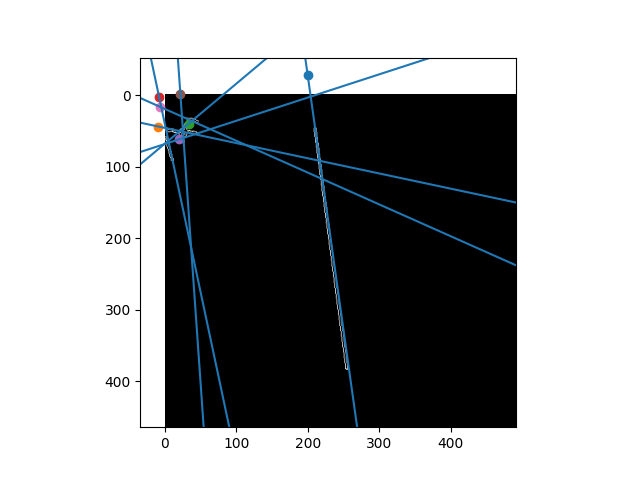
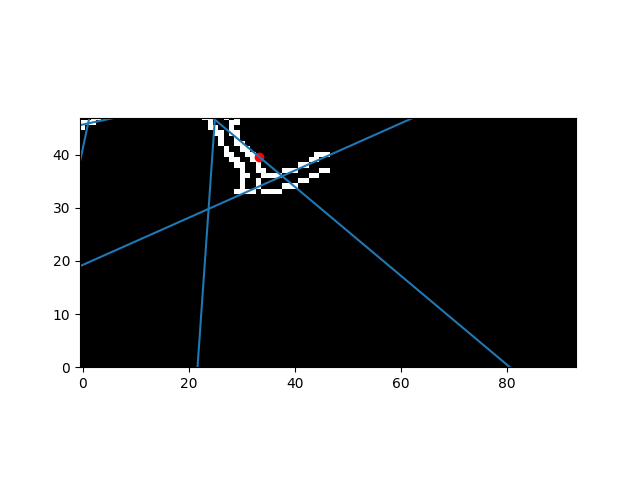
Line detection batches + modulate blur ksize in edge detection batches
Also add new test image to test on healthy bones

diff --git a/edge_detection_batch.py b/edge_detection_batch.py
@@ -1,10 +1,11 @@
 #!/usr/bin/env python3
 """
 Usage:
-    edge_detection_batch.py TARGET START STOP STEP [options]
+    edge_detection_batch.py TARGET START STOP STEP [--blur=KSIZES...] [--aperture=σ]
 
 Options:
-    --blur              Whether to pre-process with blur
+    --blur=KSIZES...    Kernel sizes for blurring. No blur if set to 0.
+                        Multiple values to test different settings.
     --aperture=σ        σ (apertureSize) to use [default: 3]
 """
 from docopt import docopt
@@ -18,14 +19,12 @@ from rich.progress import Progress
 # _, low, high, = sys.argv
 
 
-def detect_edges(
-    filename: Path, low: int, high: int, σ: int = 3, use_blur: bool = True
-):
+def detect_edges(filename: Path, low: int, high: int, σ: int = 3, blur: int = 0):
     σ, low, high = map(int, (σ, low, high))
 
     image = cv2.imread(str(filename))
-    if use_blur:
-        image = cv2.blur(image, (3, 3))
+    if blur:
+        image = cv2.blur(image, (blur, blur))
     edges = cv2.Canny(image, low, high, apertureSize=σ, L2gradient=True)
     return image, edges
 
@@ -37,23 +36,28 @@ def display_edges(
     low: int,
     high: int,
     σ: int = 3,
-    use_blur: bool = True,
+    blur: int = 0,
 ):
-    _, edges = detect_edges(filename, low, high, σ=σ, use_blur=use_blur)
+    _, edges = detect_edges(filename, low, high, σ=σ, blur=blur)
     plt.subplot(1, 2, fig_idx)
     plt.title(title)
     plt.imshow(edges, cmap="gray")
 
 
-def batch_output_filename(target: Path, low: int, high: int, use_blur: bool) -> Path:
-    directory = Path(__file__).parent / "edge-detection/batches" / target.with_suffix('')
+def batch_output_filename(target: Path, low: int, high: int, blur:int=0) -> Path:
+    directory = (
+        Path(__file__).parent / "edge-detection/batches" / target.with_suffix("")
+    )
     directory.mkdir(parents=True, exist_ok=True)
-    return directory / f"blur={'yes' if use_blur else 'no'}-{low*high:04d}-low={low:03d}-high={high:03d}.png"
+    return (
+        directory
+        / f"blur={blur}-{low*high:04d}-low={low:03d}-high={high:03d}.png"
+    )
 
 
 def do_batch(
     image: Union[tuple[Path, Path], Path],
-    use_blur: bool,
+    blur_values: Iterable[int],
     high_values: Iterable[int],
     low_values: Iterable[int],
     σ: int = 3,
@@ -64,55 +68,58 @@ def do_batch(
     - use_blur: whether to preprocess the image with blur
     - σ: sets aperture size.
     """
-    preprocesses = ["flou"] if use_blur else []
     if isinstance(image, tuple):
         broken, baseline = image
     else:
         broken, baseline = image, None
     with Progress() as progress_bar:
         task = progress_bar.add_task(
-            "[blue]Processing...", total=len(list(high_values)) * len(list(low_values))
+            "[blue]Processing...", total=len(list(high_values)) * len(list(low_values) * len(list(blur_values)))
         )
 
-        for high in high_values:
-            for low in low_values:
-                plt.suptitle(
-                    f"Seuils: haut: {high}, bas: {low}. σ: {σ}.\nPré-traitements: {', '.join(preprocesses) if preprocesses else 'aucun'}"
-                )
-
-
-                plt.subplot(1,2,1)
-                plt.title("Image originale (cassé)")
-                plt.imshow(cv2.imread(str(broken), 0))
-
-                display_edges(2, "Cassé", broken, low, high, σ=σ, use_blur=use_blur)
-                if baseline:
-                    display_edges(3, "Sain", baseline, low, high, σ=σ, use_blur=use_blur)
-
-                plt.savefig(
-                    batch_output_filename(
-                        broken, low=low, high=high, use_blur=use_blur
+        for blur in blur_values:
+            for high in high_values:
+                for low in low_values:
+                    plt.suptitle(
+                        f"Seuils: haut: {high}, bas: {low}. σ: {σ}.\nPré-traitements: {'Flou: %d' % blur if blur else 'Aucun'}"
                     )
-                )
-                progress_bar.update(
-                    task,
-                    advance=1,
-                    description=Path(batch_output_filename(
-                        broken, low=low, high=high, use_blur=use_blur
-                    )).name,
-                )
+
+                    plt.subplot(1, 2, 1)
+                    plt.title("Image originale (cassé)")
+                    plt.imshow(cv2.imread(str(broken), 0))
+
+                    display_edges(2, "Cassé", broken, low, high, σ=σ, blur=blur)
+                    if baseline:
+                        display_edges(
+                            3, "Sain", baseline, low, high, σ=σ, blur=blur
+                        )
+
+                    plt.savefig(
+                        batch_output_filename(broken, low=low, high=high, blur=blur)
+                    )
+                    progress_bar.update(
+                        task,
+                        advance=1,
+                        description=Path(
+                            batch_output_filename(
+                                broken, low=low, high=high, blur=blur
+                            )
+                        ).name,
+                    )
 
 
 if __name__ == "__main__":
     opts = docopt(__doc__)
     target = Path(opts["TARGET"])
-    threshold_values = list(range(int(opts["START"]), int(opts["STOP"]), int(opts["STEP"])))
+    threshold_values = list(
+        range(int(opts["START"]), int(opts["STOP"]), int(opts["STEP"]))
+    )
 
     do_batch(
         # image=(target, target.parent / f"{target.with_suffix('').name}_baseline.png"),
         image=target,
         high_values=threshold_values,
         low_values=threshold_values,
-        use_blur=opts["--blur"],
+        blur_values=list(map(int, opts['--blur'])),
         σ=int(opts["--aperture"]),
     )

diff --git a/angle_research_2.py b/angle_research_2.py
@@ -27,8 +27,14 @@ def display_lines(image: np.ndarray, lines: list[tuple[int, int, float]], save: 
     """
     plt.imshow(image, cmap="gray")
     for x, y, slope in lines:
+        try:
+            print(f"at {x} {y}: {image[int(x), int(y)]}")
+        except IndexError:
+            continue
         plt.axline((x, y), slope=slope)
-        plt.scatter(x, y)
+        plt.scatter(x, y, c="red")
+    plt.xlim(right=len(image[:, 0]))
+    plt.ylim(0, len(image[0]))
 
     if save:
         plt.savefig(str(save))
